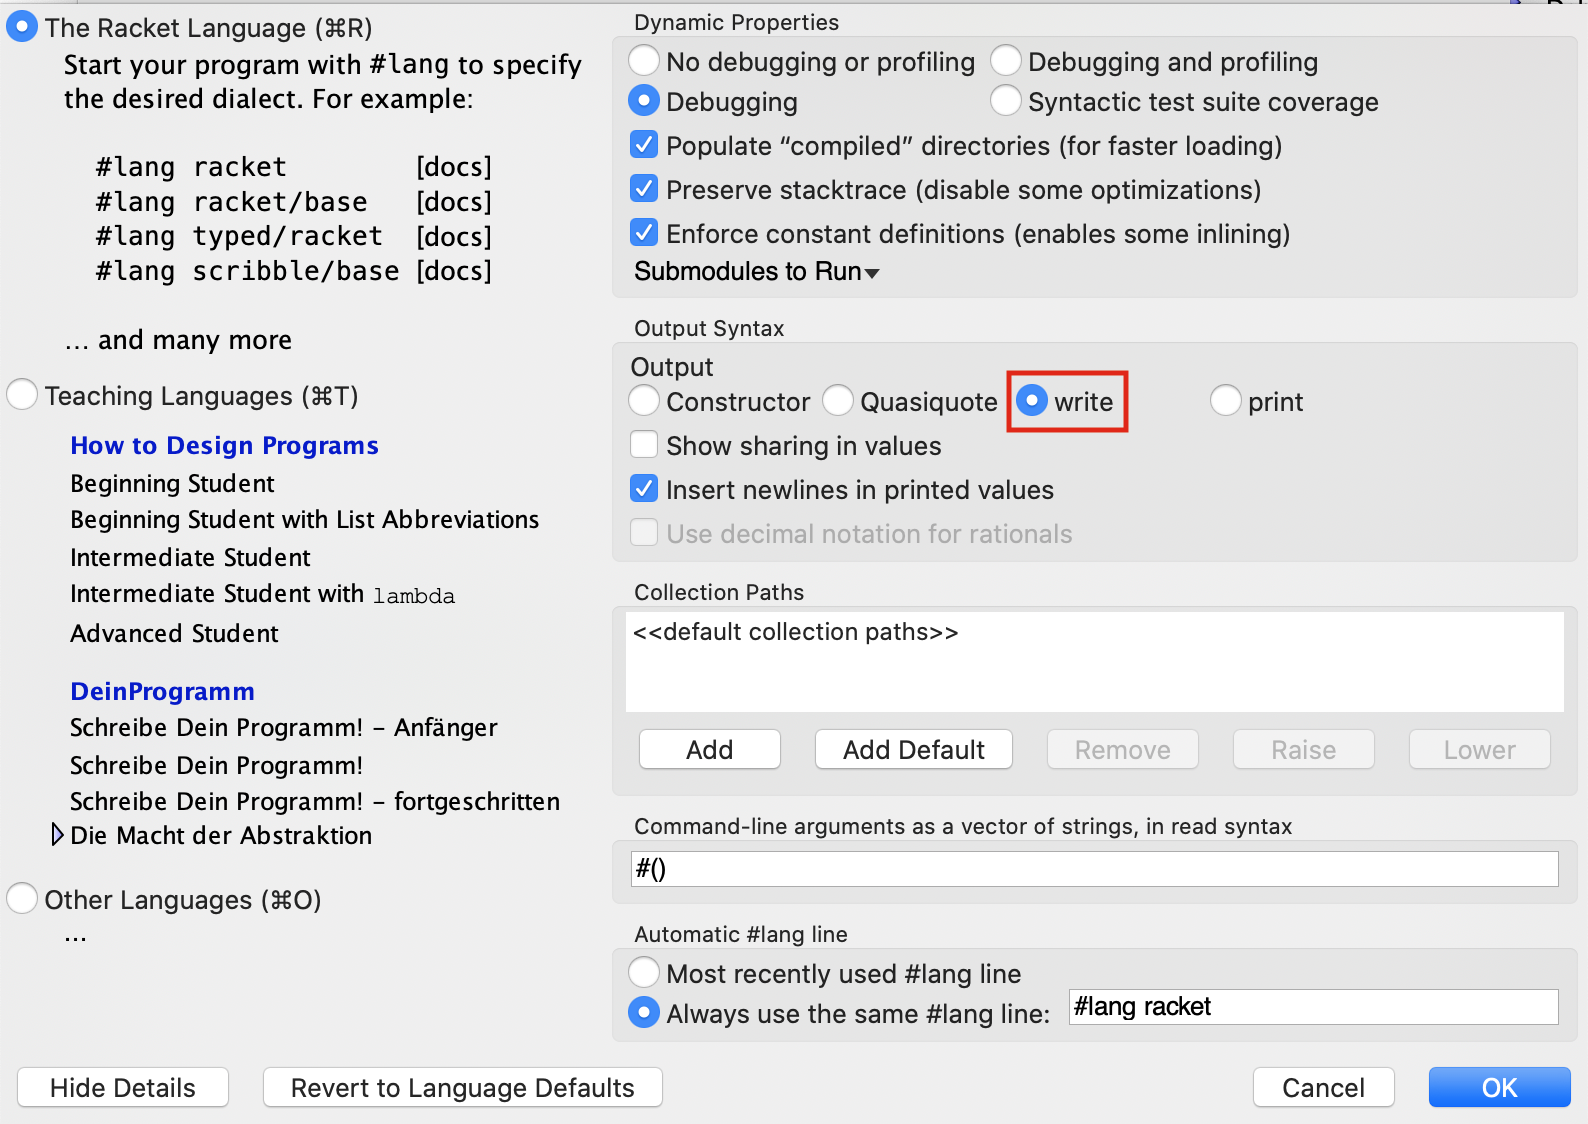
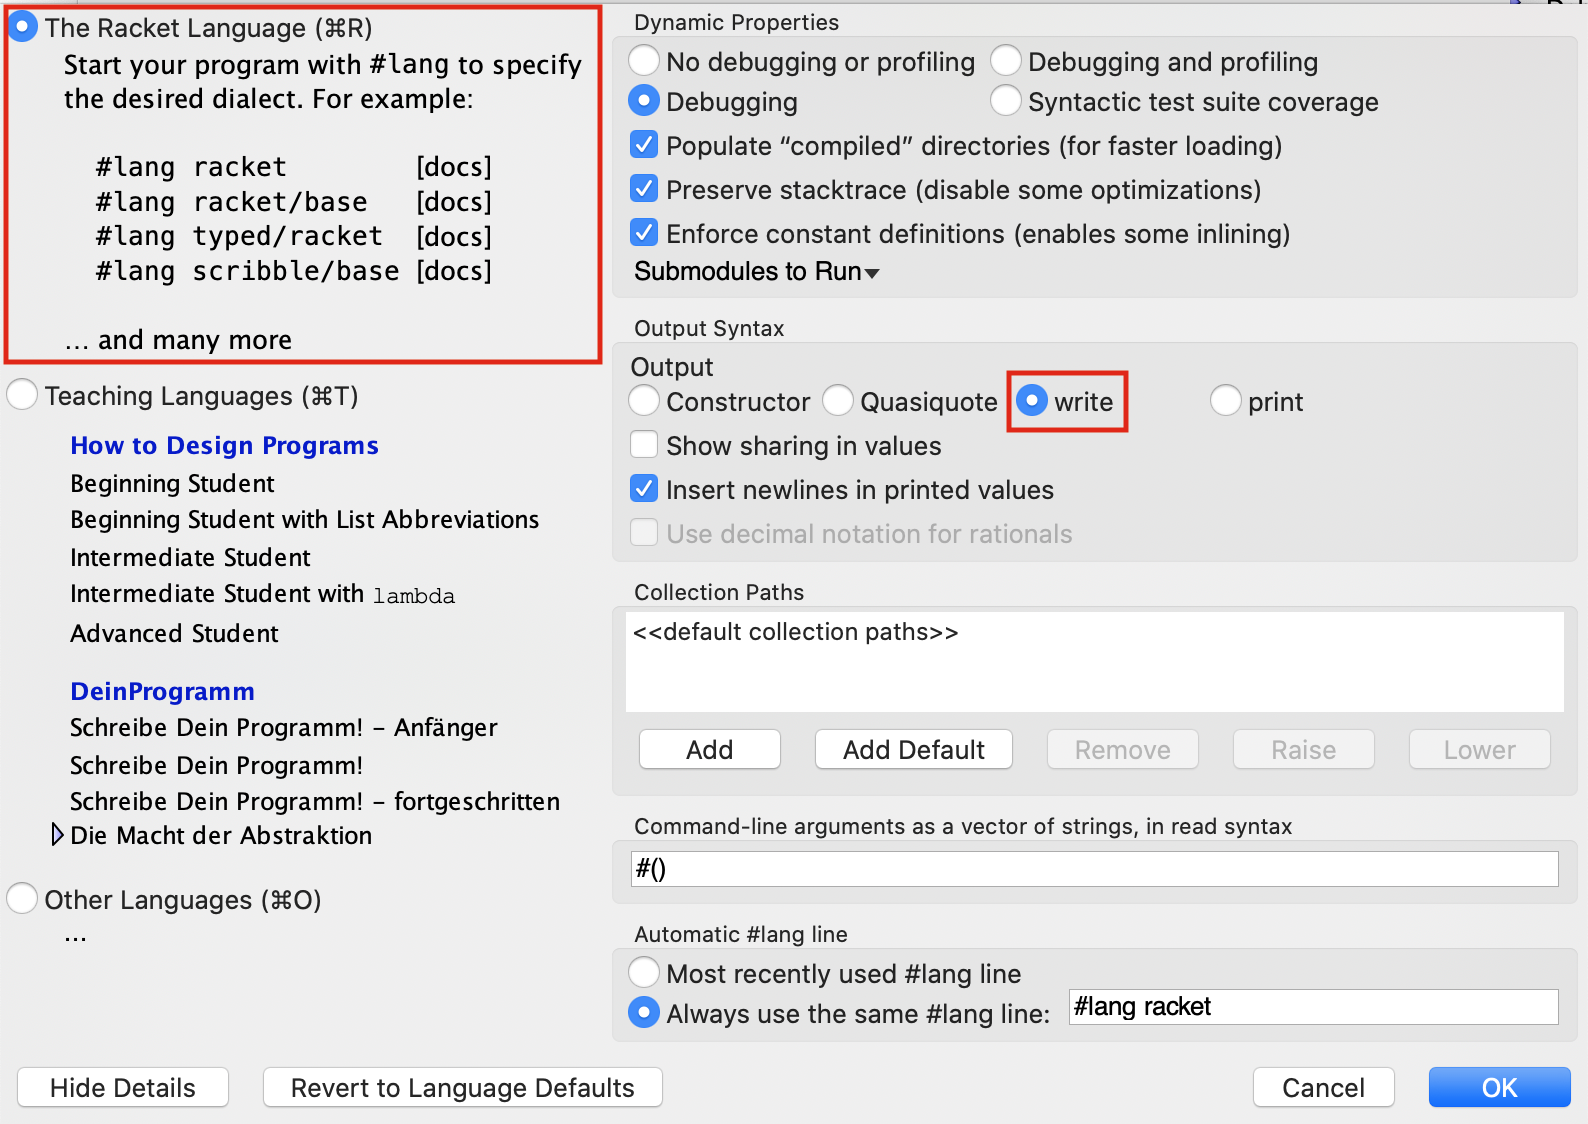
Correcciones

Changed region(s): [[0.0, 0.0, 0.4011, 0.3425]]

diff --git a/docs/seminarios/seminario1-scheme/seminario1-scheme.md b/docs/seminarios/seminario1-scheme/seminario1-scheme.md
@@ -7,8 +7,9 @@ recomendamos que les echéis un vistazo y, si os interesa y os queda
 tiempo, que exploréis también en los enlaces que hemos dejado en los
 apuntes para ampliar información.
 
-* [The Racket Guide](https://docs.racket-lang.org/guide/)
-* [Simply Scheme](http://www.eecs.berkeley.edu/~bh/ss-toc2.html)
+- [The Racket Guide](https://docs.racket-lang.org/guide/)
+- [The Racket Reference](https://docs.racket-lang.org/reference/)
+- [Simply Scheme](http://www.eecs.berkeley.edu/~bh/ss-toc2.html)
 
 ## El lenguaje de programación Scheme
 
@@ -39,7 +40,7 @@ conexión a servidores HTTP, de conexión a bases de datos, etc.) con
 las que se moderniza el lenguaje original y se convierte en un
 lenguaje práctico para desarrollar todo tipo de aplicaciones, desde
 videojuegos a servidores web.
-
+n
 Sin embargo, nosotros sólo vamos a usar Racket para aprender la parte
 que corresponde al núcleo original de Scheme.
 
@@ -49,11 +50,14 @@ Veamos una pequeña introducción al entorno de programación que
 proporciona DrRacket. Puedes encontrar más información en la
 [documentación original](http://docs.racket-lang.org/drracket/index.html).
 
-**Importante**: Antes de empezar a trabajar con Racket debemos
-asegurarnos que la sintaxis de la salida tiene activada la opción
-`write`, como aparece en la siguiente imagen:
+#### Configuración de DrRacket
 
-<img src="imagenes/output-syntax.png" width="600px"/>
+Para poder trabajar correctamente con DrRacket debemos asegurarnos que
+el lenguaje activo es `The Racket Language` y que la sintaxis de la
+salida tiene activada la opción `write`, como aparece en la siguiente
+imagen:
+
+<img src="imagenes/output-syntax.png" width="600px" style="border:1px solid black;"/>
 
 Podemos modificar esa opción con los siguientes menús:
 
@@ -64,11 +68,16 @@ Esta opción determina la sintaxis de la salida del intérprete del
 lenguaje, que va a ser uno de los elementos fundamentales para
 aprender Scheme.
 
+!!! Warning "Aviso" 
+    Una vez seleccionadas estas opciones, la configuración se guarda en
+    las preferencias del usuario. En los laboratorios de la EPS hay
+    que realizar la configuración al comienzo de cada sesión.
+
 Cuando lanzamos DrRacket, vemos que tiene tres partes: una fila de
 botones arriba, dos paneles de edición en el medio y una barra de
 estado abajo.
 
-<img src="imagenes/racket1.png" width="500px"/>
+<img src="imagenes/racket1.png" width="500px" style="border:1px solid black;"/>
 
 El panel de edición superior es la ventana de definiciones. Se utiliza
 para implementar funciones, como la función `cuadrado` en el ejemplo. El
@@ -79,17 +88,6 @@ de definiciones_, haciendo que esas definiciones estén disponibles en
 la ventana de interacción. Así, dada la definición de `cuadrado`,
 después de pulsar _Run_, podemos teclear la expresión `(cuadrado 2)` en
 el intérprete, se evaluará y mostrará el resultado, en este caso 4.
-
-### Cambiar el idioma del entorno
-
-Podemos interactuar con el entorno en el idioma que queramos. Si
-queremos tenerlo por ejemplo en español, vamos al menú _Help ->
-Interactúa con DrRacket en español_. Nos aparecerá un diálogo que nos
-obligará a reiniciar el intérprete para aceptar los cambios.
-
-<img src="imagenes/racket2.png" width="400px"/>
-
-### Eligiendo un lenguaje
 
 DrRacket soporta muchos lenguajes y dialectos de Scheme. Nosotros
 vamos a utilizar el lenguaje por defecto, el lenguaje _Racket_. Para
@@ -107,7 +105,30 @@ ello no es necesario realizar nada, sólo asegurarnos de lo siguiente:
 3. Finalmente, si pulsamos el botón _Run_ (Ejecutar) comprobaremos que
    se carga ese lenguaje en el intérprete.
 
-<img src="imagenes/racket3.png" width="500px"/>
+<img src="imagenes/racket3.png" width="500px" style="border:1px solid black;"/>
+
+#### Cambiar el idioma del entorno ####
+
+Podemos interactuar con el entorno en el idioma que queramos. Si
+queremos tenerlo por ejemplo en español, vamos al menú _Help ->
+Interactúa con DrRacket en español_. Nos aparecerá un diálogo que nos
+obligará a reiniciar el intérprete para aceptar los cambios.
+
+<img src="imagenes/racket2.png" width="400px" style="border:1px solid black;"/>
+
+#### Cómo escribir en el intérprete ####
+
+En la ventana inferior se encuentra el intérprete de Racket. El
+intérprete realiza un bucle en el que se lee una expresión, se evalúa
+su resultado y se imprime. A este tipo de bucle se denomina en inglés
+REPL (_Read-Evaluate-Print Loop_).
+
+Las expresiones que escribimos en el intérprete se guardan en un
+_buffer_. Podemos recuperar las expresiones anteriores y movernos por
+ese _buffer_ usando las siguientes combinaciones de teclas:
+
+- `ESC` + `p` (Previous) / `n` (Next) (Mac)
+- `CTRL` + flecha arriba/abajo (Linux, Windows)
 
 ## El lenguaje Scheme
 
@@ -118,11 +139,11 @@ en la ventana de interacción algunas expresiones. El intérprete
 analizará la expresión y mostrará el valor resultante de evaluarla.
 
 ```racket
-2
-(+ 2 3)
-(+)
-(+ 2 4 5 6)
-(+ (* 2 3) (- 3 1))
+2 ; ⇒ 2
+(+ 2 3) ; ⇒ 5
+(+) ; ⇒ 0
+(+ 2 4 5 6) ; ⇒ 17
+(+ (* 2 3) (- 3 1)) ; ⇒ 8
 ```
 
 Las expresiones en Scheme tienen una forma denominada _notación
@@ -159,6 +180,7 @@ detiene la evaluación:
 
 ```racket
 (* (+ 3 4) (/ 3 0))
+; Error /: division by zero
 ```
 
 ### Definiendo variables y funciones
@@ -240,7 +262,8 @@ intérprete no detectará ningún error y permitirá asignar a los
 argumentos `x` e `y` esos datos. El error se produce en el momento en
 que se intenta evaluar la multiplicación.
 
-Lo podemos comprobar con el siguiente ejemplo:
+Lo podemos comprobar con el siguiente ejemplo, en el que se muestra el
+mensaje de error resultante:
 
 ```racket
 > (suma-cuadrados 10 "hola")
